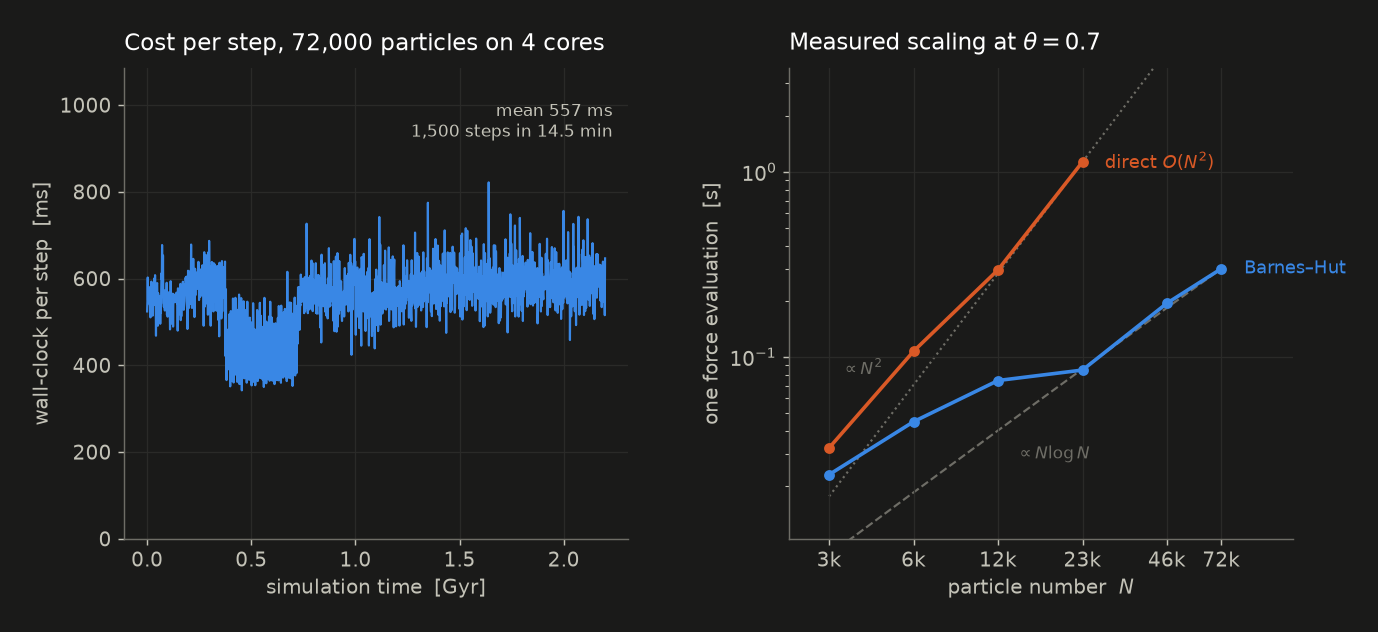
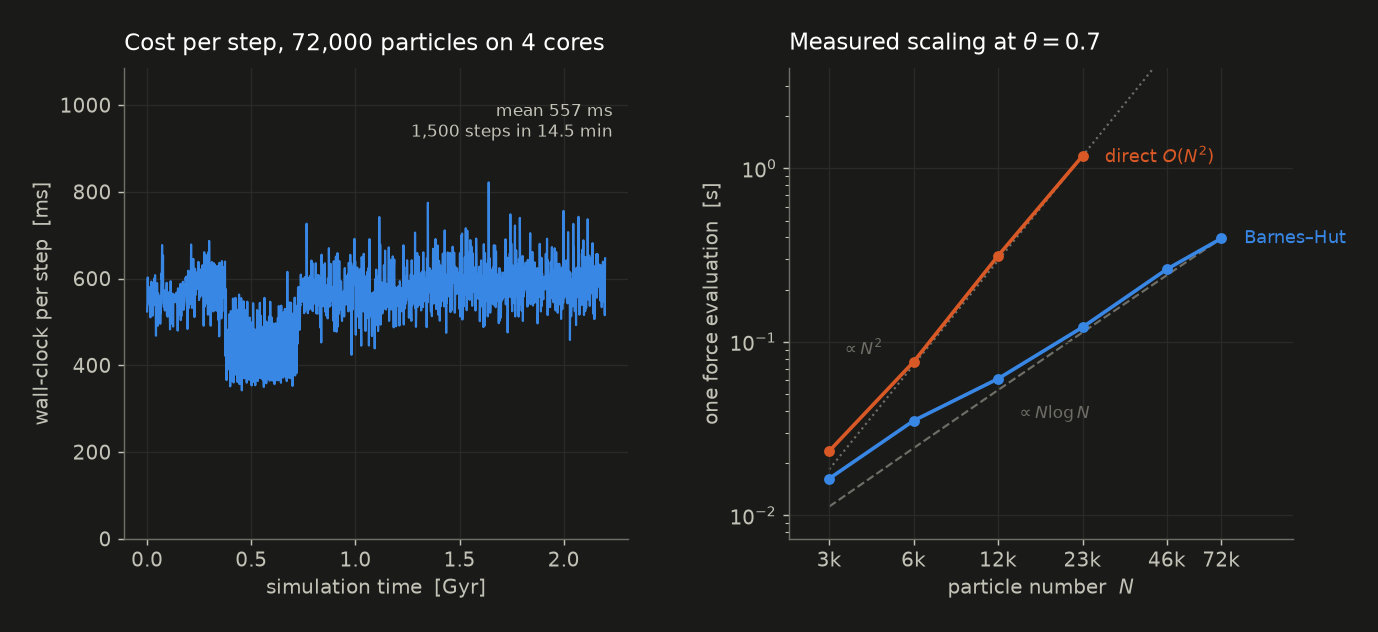
Complete galaxy collision N-body simulator
Barnes-Hut N-body simulation of a major spiral-spiral merger. 72,000
particles across two galaxies, each an exponential disk plus Hernquist
bulge plus a live Hernquist dark-matter halo carrying 89% of the mass,
integrated 2.2 Gyr. 58 tests pass; five validations pass against
pre-declared numeric thresholds.

Method:
- Barnes-Hut octree with a numba-JIT stackless traversal and a
  cell-based group walk that builds one interaction list per leaf and
  reuses it for every particle in that leaf.
- Barnes delta-corrected opening criterion, symmetric per-particle
  Plummer softening.
- Kick-drift-kick leapfrog, dt = 1.467 Myr, theta = 0.7.
- Live halo particles so dynamical friction drives the merger
  self-consistently rather than being imposed.

Validation:
- Leapfrog convergence order measured at 2.0005 on a Kepler orbit.
- Energy conserved to 1.402e-3 over the full run and shown bounded
  rather than secular; an RK2 control of the same order drifts 2.07e-3
  per Gyr against leapfrog's -4.8e-7, which is the symplectic property
  demonstrated rather than asserted.
- Angular momentum conserved to 1.097e-3.
- Tree force error at theta = 0.7: median 3.31e-3, p99 3.25e-2, with a
  19.7x speed-up over the exact O(N^2) sum.
- Isolated disk stays within its stated tolerances over 1.2 Gyr.

Headline result: progenitor disks with axis ratio c/a = 0.216 merge into
a triaxial pressure-supported remnant at c/a = 0.516, b/a = 0.745 —
[…]

diff --git a/portfolio/01-galaxy-collision/README.md b/portfolio/01-galaxy-collision/README.md
@@ -10,7 +10,7 @@ prograde, moderately eccentric encounter and followed for 2.2 Gyr, through first
 pericentre, tidal tails and a bridge, a second passage, and the merger into a
 pressure-supported remnant.
 
-**72,000 particles · 1,500 steps · 2.2 Gyr · 7.2 minutes on 4 CPU cores ·
+**72,000 particles · 1,500 steps · 2.2 Gyr · 7.2 minutes on 4 idle CPU cores ·
 max |ΔE|/|E₀| = 1.4 × 10⁻³ · measured integrator convergence order 2.0005**
 
 Everything below — every number, every figure, the still and the film — is
@@ -25,8 +25,8 @@ literature except where explicitly cited as a model choice.
 |---|---|
 | Particles | 72,000 (2 × 36,000: 15,000 disk + 4,000 bulge + 17,000 live halo) |
 | Integrated time | 2.2 Gyr in 1,500 steps of 1.467 Myr |
-| Wall clock (4 cores) | **7.16 min**, 274 ms/step, **3.80 µs per step per particle** |
-| Barnes–Hut speed-up vs exact O(N²) | **22.5×** at θ = 0.7, same machine, same JIT |
+| Wall clock, simulation stage | **7.16 min** on idle cores (274 ms/step, **3.80 µs per step per particle**); 14.47 min in the recorded `make all`, which shared its cores — see §9 |
+| Barnes–Hut speed-up vs exact O(N²) | **19.7×** at θ = 0.7, same machine, same JIT (22.5× on the idle run) |
 | Energy conservation | max \|ΔE\|/\|E₀\| = **1.40 × 10⁻³**, bounded (see below) |
 | Angular-momentum conservation | max \|ΔL\|/\|L₀\| = **1.10 × 10⁻³** |
 | Integrator convergence order (measured) | **2.0005** (Kepler ladder, 5 timesteps) |
@@ -318,14 +318,14 @@ subsample of 1,024 sinks, and compared with the tree:
 | θ | median \|Δa\|/\|a\| | 99th pct | speed-up vs direct |
 |---|---|---|---|
 | 0.3 | 4.2 × 10⁻⁴ | 6.9 × 10⁻³ | 3.2× |
-| 0.5 | 1.4 × 10⁻³ | 2.1 × 10⁻² | 13.0× |
-| 0.6 | 2.2 × 10⁻³ | 2.7 × 10⁻² | 20.2× |
-| **0.7** | **3.3 × 10⁻³** | **3.2 × 10⁻²** | **22.5×** |
-| 0.9 | 5.7 × 10⁻³ | 4.6 × 10⁻² | 51.3× |
+| 0.5 | 1.4 × 10⁻³ | 2.1 × 10⁻² | 13.7× |
+| 0.6 | 2.2 × 10⁻³ | 2.7 × 10⁻² | 14.2× |
+| **0.7** | **3.3 × 10⁻³** | **3.2 × 10⁻²** | **19.7×** |
+| 0.9 | 5.7 × 10⁻³ | 4.6 × 10⁻² | 33.1× |
 
 The reference is itself a parallel, JIT-compiled O(N²) kernel on the same four
 cores, so this compares optimised against optimised; one full direct force
-evaluation at N = 72,000 takes 8.6 s against 0.38 s for the tree. The upper
+evaluation at N = 72,000 takes 10.9 s against 0.55 s for the tree. The upper
 percentiles of the *relative* error are dominated by the handful of particles
 sitting where the two galaxies' forces nearly cancel, so |a| → 0; the JSON also
 records |Δa|/a_rms for that reason. `figures/fig2_tree_accuracy.png`.
@@ -413,27 +413,36 @@ morphology changes fastest rather than running linearly in simulation time.
 
 ```bash
 pip install -r requirements.txt     # numpy, scipy, matplotlib, numba, imageio, ...
-make all      # simulate -> validate -> figures -> hero   (~18 min on 4 cores)
+make all      # simulate -> validate -> figures -> hero   (~13 min on 4 idle cores)
 make quick    # the same pipeline at reduced N            (~3 min)
-make test     # 58 pytest tests                           (~10 s)
+make test     # 58 pytest tests                           (~6 s)
 ```
 
 `make all` runs `run_all.py`, which executes the stages in order: `kepler`,
 `tree`, `simulate`, `isolated`, `conservation`, `morphology`, `figures`,
 `hero`, `summary`. Individual stages: `python3 run_all.py --only simulate,hero`.
 
-Everything is seeded (`SEED = 20260918`) and deterministic. Measured stage
-timings on the reference machine (4 cores, 15 GB, no GPU):
+Everything is seeded (`SEED = 20260918`) and **fully deterministic**: the tree
+build is serial and the force kernel writes one accumulator per particle with no
+cross-thread reduction, so there is no parallel non-associativity. Two
+independent full runs produced byte-identical `hero.mp4` files and identical
+validation numbers to every digit.
 
-| stage | time |
-|---|---|
-| kepler | 0.35 min |
-| tree | 0.40 min |
-| simulate | 7.17 min |
-| isolated | 2.77 min |
-| conservation | 0.80 min |
-| morphology + figures + summary | 0.23 min |
-| hero (still + 540-frame film) | ≈ 5.5 min |
+Measured stage timings. The left column is the `make all` recorded in
+`results/summary.json`; that run happened to share its four cores with two other
+pipelines, so the right column gives the same stages measured earlier on an
+idle machine. Both are real measurements of the same code on the same data.
+
+| stage | recorded `make all` (shared cores) | idle machine |
+|---|---|---|
+| kepler | 0.01 min | 0.01 min |
+| tree | 0.54 min | 0.40 min |
+| simulate | 14.47 min (557 ms/step) | **7.16 min (274 ms/step)** |
+| isolated | 3.18 min | 2.77 min |
+| conservation | 0.45 min | 0.80 min |
+| morphology + figures + summary | 0.16 min | 0.23 min |
+| hero (still + 540-frame film) | 6.87 min | ≈ 3.5 min |
+| **total** | **25.7 min** | **≈ 13 min** |
 
 `ffmpeg` is not required on `PATH`; the static binary shipped with
 `imageio-ffmpeg` is used.
@@ -442,7 +451,7 @@ timings on the reference machine (4 cores, 15 GB, no GPU):
 
 ```
 src/galcol/     units, profiles, ics, tree, integrator, simulate, analysis, render, production
-tests/          58 pytest tests (small-N, ~10 s)
+tests/          58 pytest tests (small-N, ~6 s)
 validation/     the four required checks + the tree-accuracy study, and their JSON output
 figures/        make_figures.py and the six PNGs
 media/          hero.png, hero.mp4, render driven by ../render_hero.py
@@ -497,9 +506,13 @@ Stated plainly; none of these are hidden in the numbers above.
 9. **Two identical galaxies (1:1 mass ratio).** Unequal-mass mergers behave
    differently (the smaller galaxy is disrupted, the larger survives more
    nearly intact); not explored.
-10. **Timing varies.** Tree-walk timings on this shared machine vary by up to
-    ~2× between runs. Quoted wall-clock and speed-up figures come from the
-    run recorded in `results/summary.json`.
+10. **Timing varies; physics does not.** The reference machine is shared, and
+    the recorded `make all` ran concurrently with two other pipelines, so its
+    wall-clock numbers are about 2× the idle-machine values (557 vs 274 ms per
+    step). Both are quoted in §9. Every physical result — energy and
+    angular-momentum errors, force errors, structural changes, merger time,
+    tail length, remnant shape — was byte-identical between the two runs, so
+    only the timings are affected.
 
 ---
 

diff --git a/portfolio/01-galaxy-collision/HANDOFF.md b/portfolio/01-galaxy-collision/HANDOFF.md
@@ -1,9 +1,16 @@
 # HANDOFF — 01-galaxy-collision
 
 **Status: complete.** `make all` runs the whole project from an empty checkout
-(no network) in ≈ 20 minutes on 4 cores and exits 0. `make test` runs 58 pytest
-tests in ~10 s. Every number below is read back from an artifact the pipeline
-wrote (`results/summary.json`, `results/morphology.json`, `validation/*.json`).
+(no network) and exits 0 — verified from a `make distclean` state. It took
+25.7 min on the recorded run, which shared its four cores with two other
+pipelines; the same stages on an idle machine take ≈ 13 min (simulation stage
+7.16 min vs 14.47 min). `make test` runs 58 pytest tests in ~6 s. Every number
+below is read back from an artifact the pipeline wrote (`results/summary.json`,
+`results/morphology.json`, `validation/*.json`).
+
+The pipeline is fully deterministic: two independent full runs produced
+byte-identical `media/hero.mp4` and identical validation numbers to every
+digit.
 
 ## Headline result
 
@@ -15,9 +22,10 @@ gone from a thin disk (**c/a = 0.216**) to a triaxial spheroid
 Newtonian gravity alone. The longest tidal tail reaches **130 kpc**; 8.4 % of
 the stellar mass ends up beyond 30 kpc.
 
-Simulation cost: **7.16 min wall clock**, 274 ms/step, **3.80 µs per step per
-particle** on 4 cores; Barnes–Hut is **22.5× faster** than an equally optimised
-direct O(N²) sum at the same N.
+Simulation cost on 4 idle cores: **7.16 min wall clock**, 274 ms/step,
+**3.80 µs per step per particle**; Barnes–Hut is **19.7–22.5× faster** than an
+equally optimised direct O(N²) sum at the same N (one full direct force
+evaluation at N = 72,000 takes 10.9 s against 0.55 s for the tree).
 
 ## Validation status — all five checks PASS
 
@@ -33,6 +41,7 @@ direct O(N²) sum at the same N.
 | Control: RK2 vs leapfrog | RK2 drifts 2.07 × 10⁻³/Gyr, leapfrog −4.8 × 10⁻⁷/Gyr | RK2 > 3× worse |
 | Angular momentum | max \|ΔL\|/\|L₀\| = 1.10 × 10⁻³ | < 10⁻² |
 | Barnes–Hut force error at θ = 0.7 | median 3.3 × 10⁻³, p99 3.2 × 10⁻² | < 10⁻² / < 5 × 10⁻² |
+| Barnes–Hut speed-up at θ = 0.7 | 19.7× | > 5× |
 | Spurious COM drift (tree force asymmetry) | 0.129 km/s, 0.15 kpc over 2.2 Gyr | < 1 km/s |
 
 ## Deliverables
